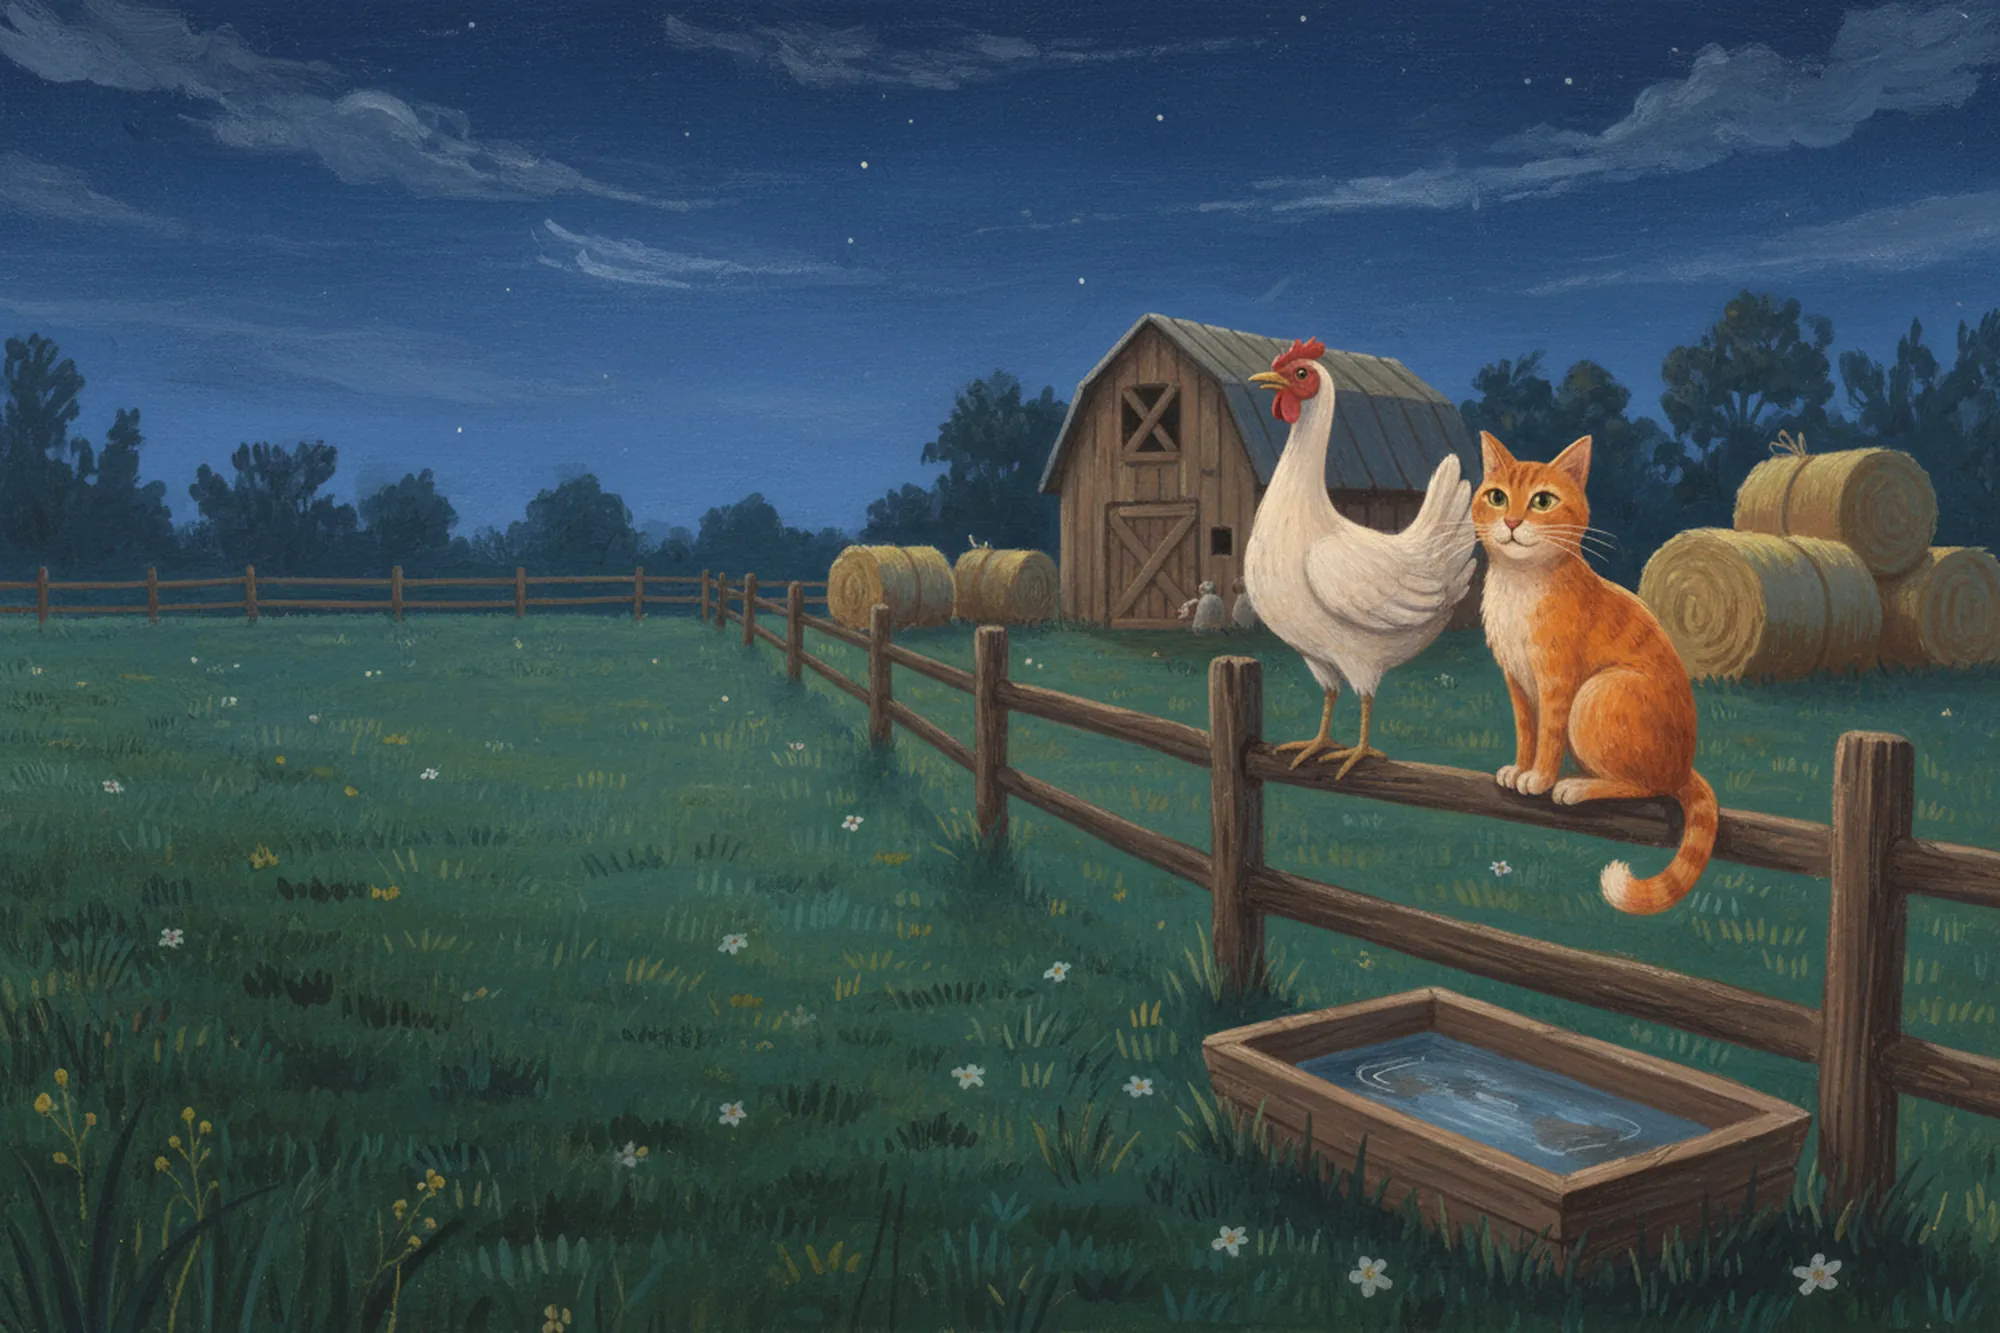
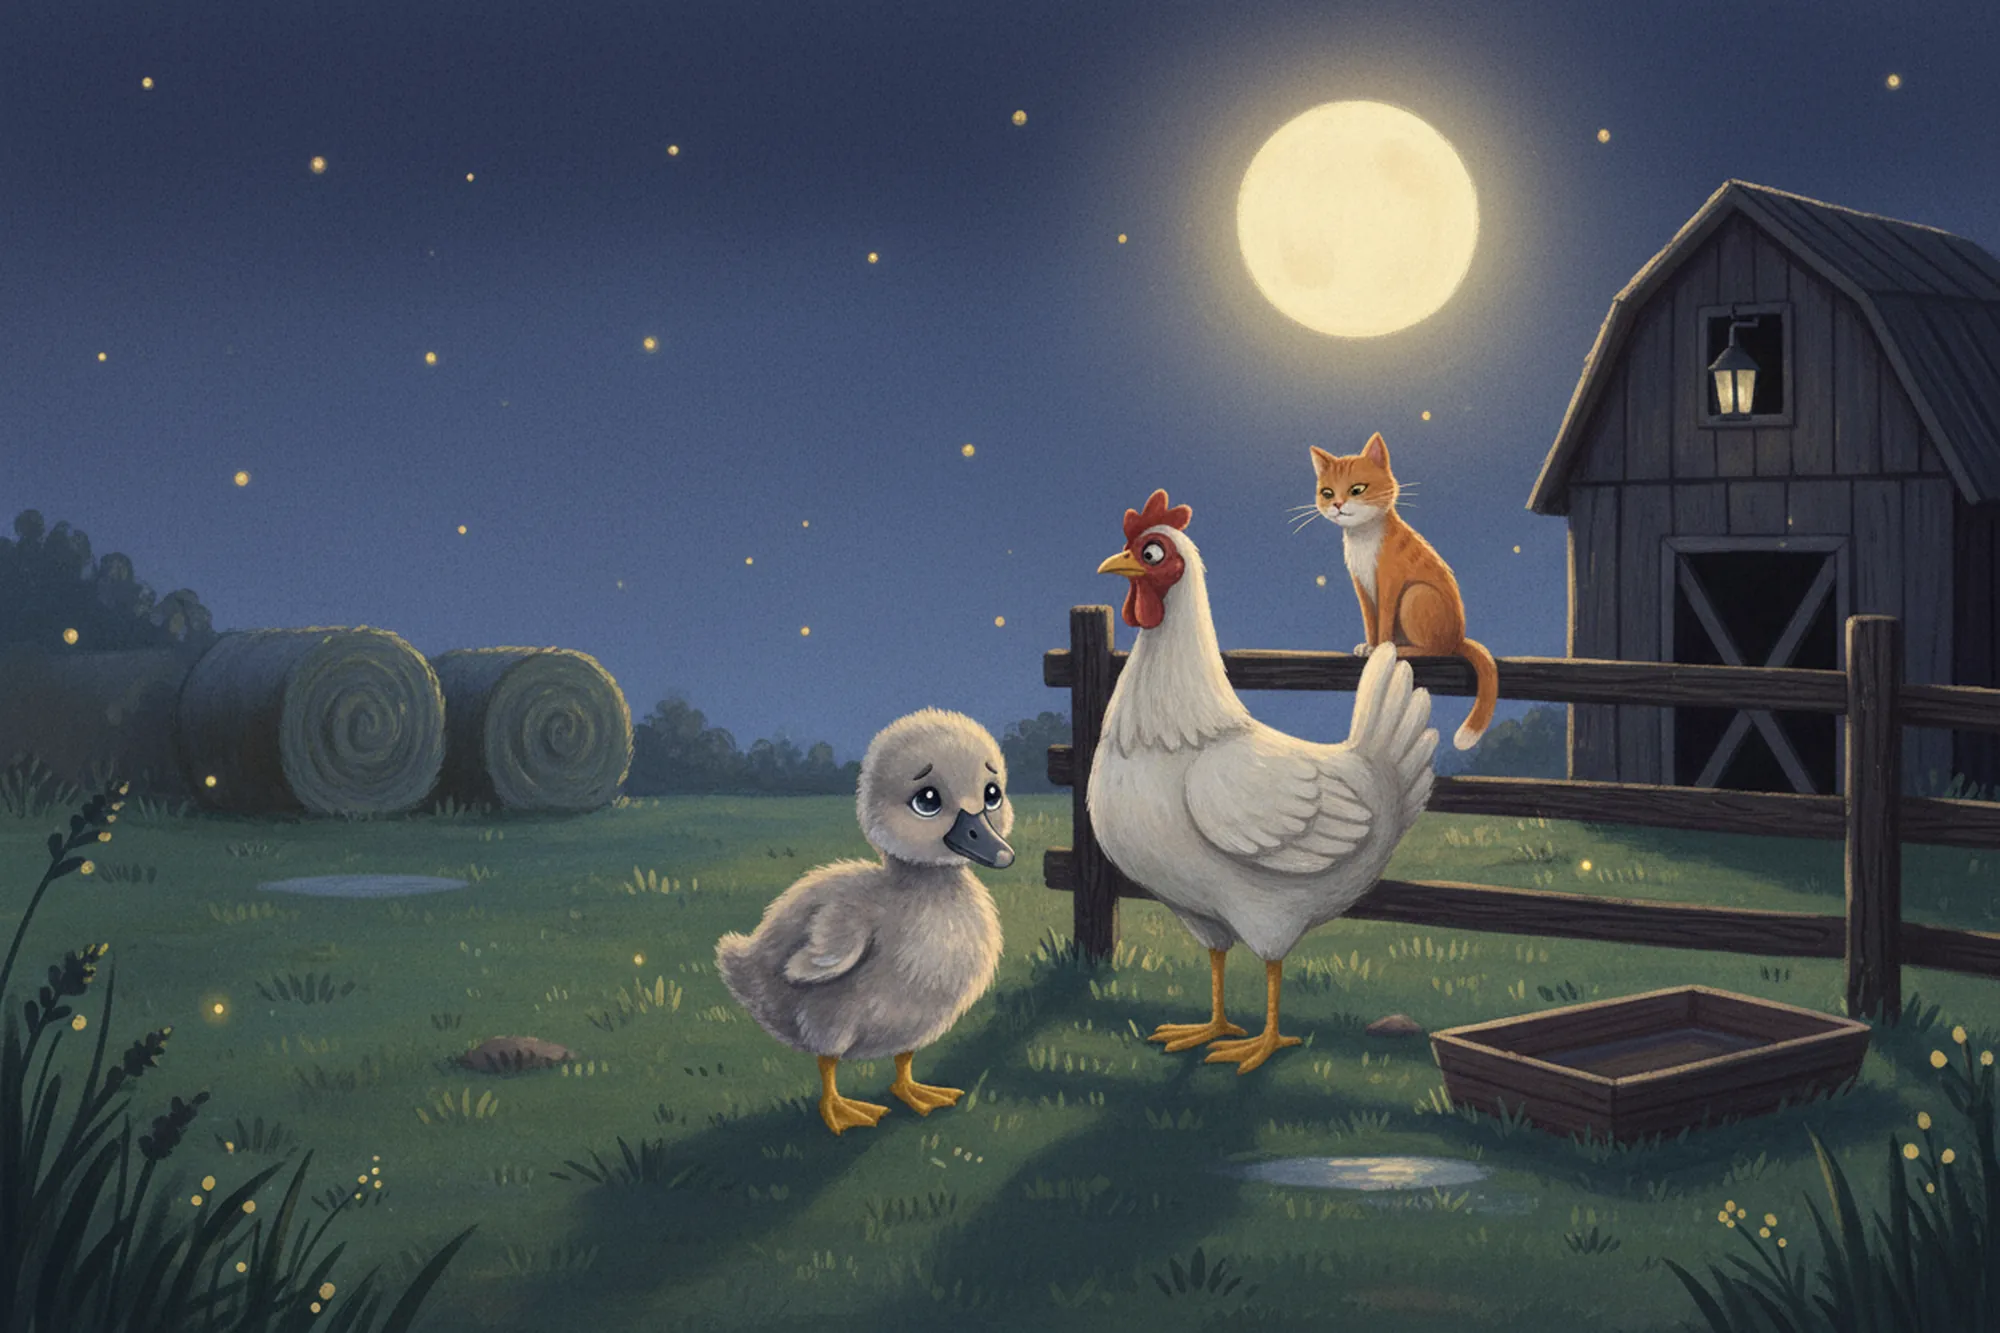
El pichón gris: ajustes tras la prueba de una lectora de 8 años
- Puente claro hacia la granja y frase menos dura ("no sos de los nuestros").
- La opción de proponerles que vean lo que Grisi sabe hacer ya no suena a trampa.
- Palabras difíciles reemplazadas y el último paso cambia según el camino elegido.
- La escena de la granja ahora incluye a Grisi.

diff --git a/index.html b/index.html
@@ -1479,7 +1479,7 @@ const STORIES={
       g1:{step:1,scene:'casa',
         text:()=>P(`Esa noche, ${N()} estaba por apagar la luz cuando escuchó algo raro debajo de la ventana: un cuac que sonaba como una trompetita triste.`)+
           P(`Era un pichón de pato grandote, gris y un poco despeinado, con unas patas enormes y los ojos llenos de lágrimas. Lo había encontrado ${CF()}, en el camino.`)+
-          P(`—Me llamo Grisi —dijo el pichón, sorbiéndose los mocos—. En la laguna todos se ríen de mí. Dicen que soy el patito más raro del mundo. Así que me fui… pero no sé adónde ir.`),
+          P(`—Me llamo Grisi —dijo el pichón, limpiándose las lágrimas con el ala—. En la laguna todos se ríen de mí. Dicen que soy el patito más raro del mundo. Así que me fui… pero no sé adónde ir.`),
         q:()=>`¿Qué hace ${N()}?`,
         choices:[
           {t:()=>'Abrigarlo con la manta y decirle que es lindo así como es',tr:'bondad',go:'g2'},
@@ -1492,19 +1492,19 @@ const STORIES={
             valentia:P(`—Vamos a encontrar un lugar donde te quieran —dijo ${N()}. Se puso las zapatillas, y ${C()} se ofreció a mostrarles el camino.`),
             ingenio:P(`—¿Qué es lo que mejor sabés hacer? —preguntó ${N()}. Grisi lo pensó un rato. —Nadar —dijo—. Nado mejor que nadie. Pero eso no le importa a nadie.`)
           })[S.path[0]]+
-          P(`Caminaron hasta una granja donde vivían una gallina muy estirada y un gato muy serio. Los dos miraron a Grisi de arriba abajo.`)+
-          P(`—¿Sabés poner huevos? —preguntó la gallina. —¿Sabés ronronear? —preguntó el gato. Grisi dijo que no con la cabeza. —Entonces no servís para nada —dijeron los dos, y se dieron vuelta.`),
+          P(`${C()} dijo que conocía una granja cerca, y fueron hasta ahí. Allí vivían una gallina muy creída y un gato muy serio. Los dos miraron a Grisi de arriba abajo.`)+
+          P(`—¿Sabés poner huevos? —preguntó la gallina. —¿Sabés ronronear? —preguntó el gato. Grisi dijo que no con la cabeza. —Entonces no sos de los nuestros —dijeron los dos, y se dieron vuelta.`),
         q:()=>`¿Qué hace ${N()}?`,
         choices:[
           {t:()=>'Defender a Grisi: cada uno sabe hacer cosas distintas',tr:'valentia',go:'g3a'},
-          {t:()=>'Preguntarles a ellos si saben nadar',tr:'ingenio',go:'g3a'},
+          {t:()=>'Proponerles que vean lo que Grisi sí sabe hacer',tr:'ingenio',go:'g3a'},
           {t:()=>'Llevarse a Grisi a un estanque escondido y hacerlo reír',tr:'bondad',go:'g3b'}
         ]},
       g3a:{step:3,scene:'granja_nado',
         text:()=>(S.path[1]==='valentia'
             ?P(`—¡Eso no es justo! —dijo ${N()}, con los pies bien plantados—. Cada uno sabe hacer cosas distintas.`)
-            :P(`—¿Y ustedes saben nadar? —preguntó ${N()}. La gallina y el gato se miraron. —No —admitieron, un poco avergonzados.`))+
-          P(`Grisi se metió en el bebedero y dio una vuelta tan elegante que el gato abrió la boca y a la gallina se le cayó una pluma. —Perdón —dijo la gallina—. Nos apuramos a juzgarte.`)+
+            :P(`——Grisi sabe hacer algo que ustedes no vieron —dijo ${N()}—. ¿Quieren verlo? La gallina y el gato se miraron. —Bueno —dijeron, con curiosidad.`))+
+          P(`Grisi se metió en el bebedero y dio una vuelta tan elegante que el gato abrió la boca y a la gallina se le cayó una pluma. —Perdón —dijo la gallina—. Pensamos mal de vos sin conocerte.`)+
           P(`—Ahora que te veo nadar —dijo el gato—, me acuerdo de unas aves grandes y blancas que viven en el lago, detrás de las lomas. Nadan igualito a vos.`),
         q:()=>'¿Qué hacen ahora?',
         choices:[
@@ -1514,14 +1514,14 @@ const STORIES={
       g3b:{step:3,scene:'laguna',
         text:()=>P(`En el estanque, ${N()} se puso a saltar como una rana, con los cachetes inflados: croac, croac. Grisi se rió tan fuerte que se cayó al agua: ¡plaf!`)+
           P(`Y entonces pasó algo: Grisi nadó. Se deslizó por el estanque tan suave y tan derecho que parecía flotar sobre el reflejo de la luna.`)+
-          P(`Una rana de verdad croó desde un camalote: —Vos no nadás como un pato. Nadás como las aves blancas del lago grande, el que está detrás de las lomas.`)+P(`Grisi se quedó quieto. —¿Y si ellas también se ríen de mí? —preguntó bajito.`),
+          P(`Una rana de verdad croó desde una planta flotante: —Vos no nadás como un pato. Nadás como las aves blancas del lago grande, el que está detrás de las lomas.`)+P(`Grisi se quedó quieto. —¿Y si ellas también se ríen de mí? —preguntó bajito.`),
         q:()=>`¿Qué le dice ${N()}?`,
         choices:[
           {t:()=>'Prometerle que van juntos y, si se ríen, vuelven juntos',tr:'bondad',go:'g4'},
           {t:()=>'Decirle que lo nuevo da miedo, pero que vale la pena',tr:'valentia',go:'g4'}
         ]},
       g4:{step:4,scene:'lago',
-        text:()=>P(`${C()} los guió entre las lomas hasta que apareció el lago grande, brillando bajo la luna. En el medio nadaban unas aves blancas con el cuello negro, largo como un signo de pregunta. Eran cisnes de cuello negro, y eran hermosos.`)+
+        text:()=>P(`${S.path[1]==='bondad'?(S.path[2]==='bondad'?`${N()} y Grisi caminaron uno al lado del otro entre las lomas, con ${C()} adelante,`:`Grisi respiró hondo y siguió a ${C()} entre las lomas,`):(S.path[2]==='valentia'?`Salieron enseguida hacia las lomas, aunque el camino era largo, y ${C()} los guió`:`Siguieron el camino que el gato dibujó en la tierra, y ${C()} los guió entre las lomas`)} hasta que apareció el lago grande, brillando bajo la luna. En el medio nadaban unas aves blancas con el cuello negro, largo como un signo de pregunta. Eran cisnes de cuello negro, y eran lindísimos.`)+
           P(`Grisi se escondió detrás de ${N()}. —Yo soy gris y despeinado —susurró—. No me van a querer.`)+
           P(`Pero los cisnes ya los habían visto, y venían nadando despacito hacia la orilla.`),
         q:()=>'La última decisión',
@@ -1538,12 +1538,12 @@ const STORIES={
         P(`—¡Algún día voy a volar hasta tu ventana! —le gritó a ${N()} desde el cielo. Y ${N()} se fue a dormir ${G('segura','seguro','con la certeza')} de que lo iba a cumplir.`)},
       bondad:{title:'El final de la nueva familia',text:()=>(({valentia:P(`${N()} caminó con Grisi hasta el agua, bien a su lado. Cuando los cisnes llegaron a la orilla, respiró hondo.`),ingenio:P(`Grisi saludó con un cuac de trompeta, chiquito y tímido, y los cisnes se acercaron a ver quién era.`)})[S.path[3]]||'')+P(`—Este es Grisi —dijo ${N()}—. Es mi amigo, y nada como nadie.`)+
         P(`Los cisnes lo rodearon con sus cuellos largos, como en un abrazo. —¡Un pichón de cisne! —dijeron—. Nosotros también fuimos grises de chiquitos. Te estábamos esperando.`)+
-        P(`Grisi se acurrucó debajo del ala del cisne más viejito, tibia como una frazada. Antes de dormirse, abrió un ojo. —Gracias por quererme antes de saber quién era —le dijo a ${N()}.`)+
+        P(`Grisi se acurrucó debajo del ala del cisne más viejito, tibia como una mantita. Antes de dormirse, abrió un ojo. —Gracias por quererme antes de saber quién era —le dijo a ${N()}.`)+
         P(`${N()} volvió a casa con el corazón calentito. A veces alcanza con que alguien te diga que sos lindo así como sos.`)},
       ingenio:{title:'El final del cuac de trompeta',text:()=>(({valentia:P(`${N()} caminó con Grisi hasta el agua, bien a su lado. Los cisnes ya estaban cerca, pero Grisi no se animaba a decir nada.`),bondad:P(`—Este es Grisi, y nada como nadie —dijo ${N()}. Los cisnes lo miraron con curiosidad, esperando que dijera algo.`)})[S.path[3]]||'')+P(`—Saludalos a tu manera —le dijo ${N()}—. Con tu cuac de trompeta.`)+
         P(`Grisi tomó aire y lanzó un ¡TRUUU-CUAC! que se escuchó en todo el lago. Hubo un silencio. Y después, todos los cisnes contestaron con el mismo sonido: ¡TRUUU, TRUUU!`)+
         P(`—¡Es la voz de los cisnes! —dijo el más grande—. Sos uno de los nuestros. Nosotros también fuimos grises de chiquitos.`)+
-        P(`Esa noche los cisnes cantaron hasta tarde, y desde la granja, la gallina y el gato escucharon el concierto. ${N()} se durmió pensando que lo que nos hace distintos, muchas veces, es justo lo que nos hace especiales.`)}
+        P(`Esa noche los cisnes cantaron hasta tarde, y desde la granja, la gallina y el gato escucharon el concierto. ${N()} se durmió pensando que ser distinto puede ser lo más lindo de uno.`)}
     }
   },
   dibujos:{
